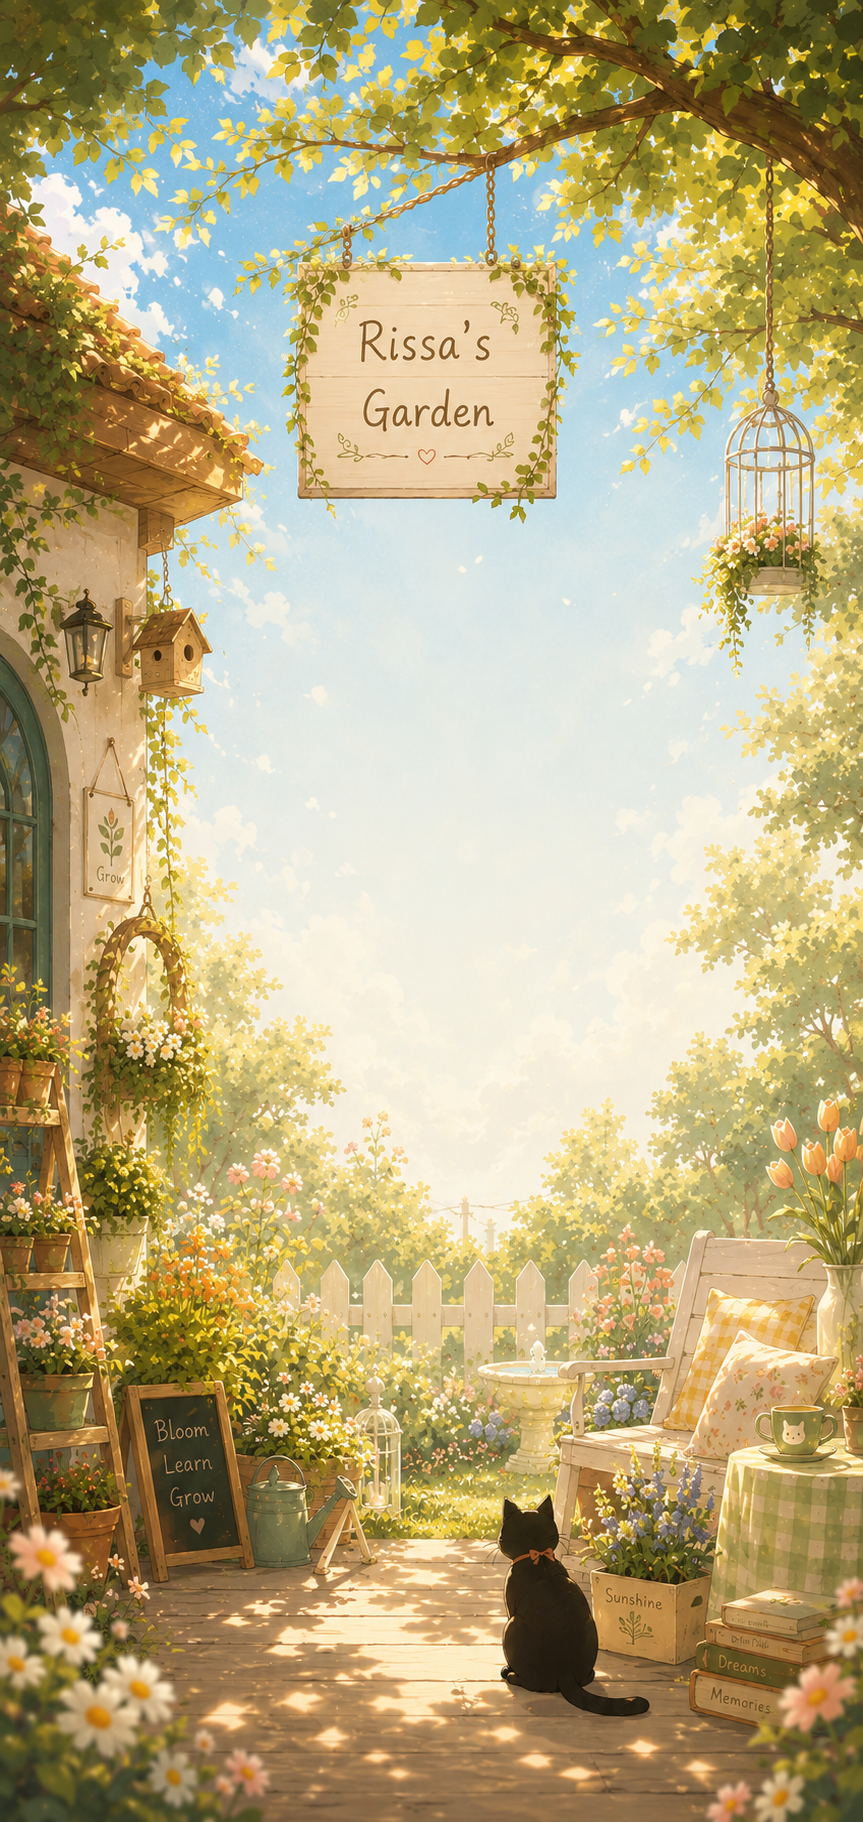
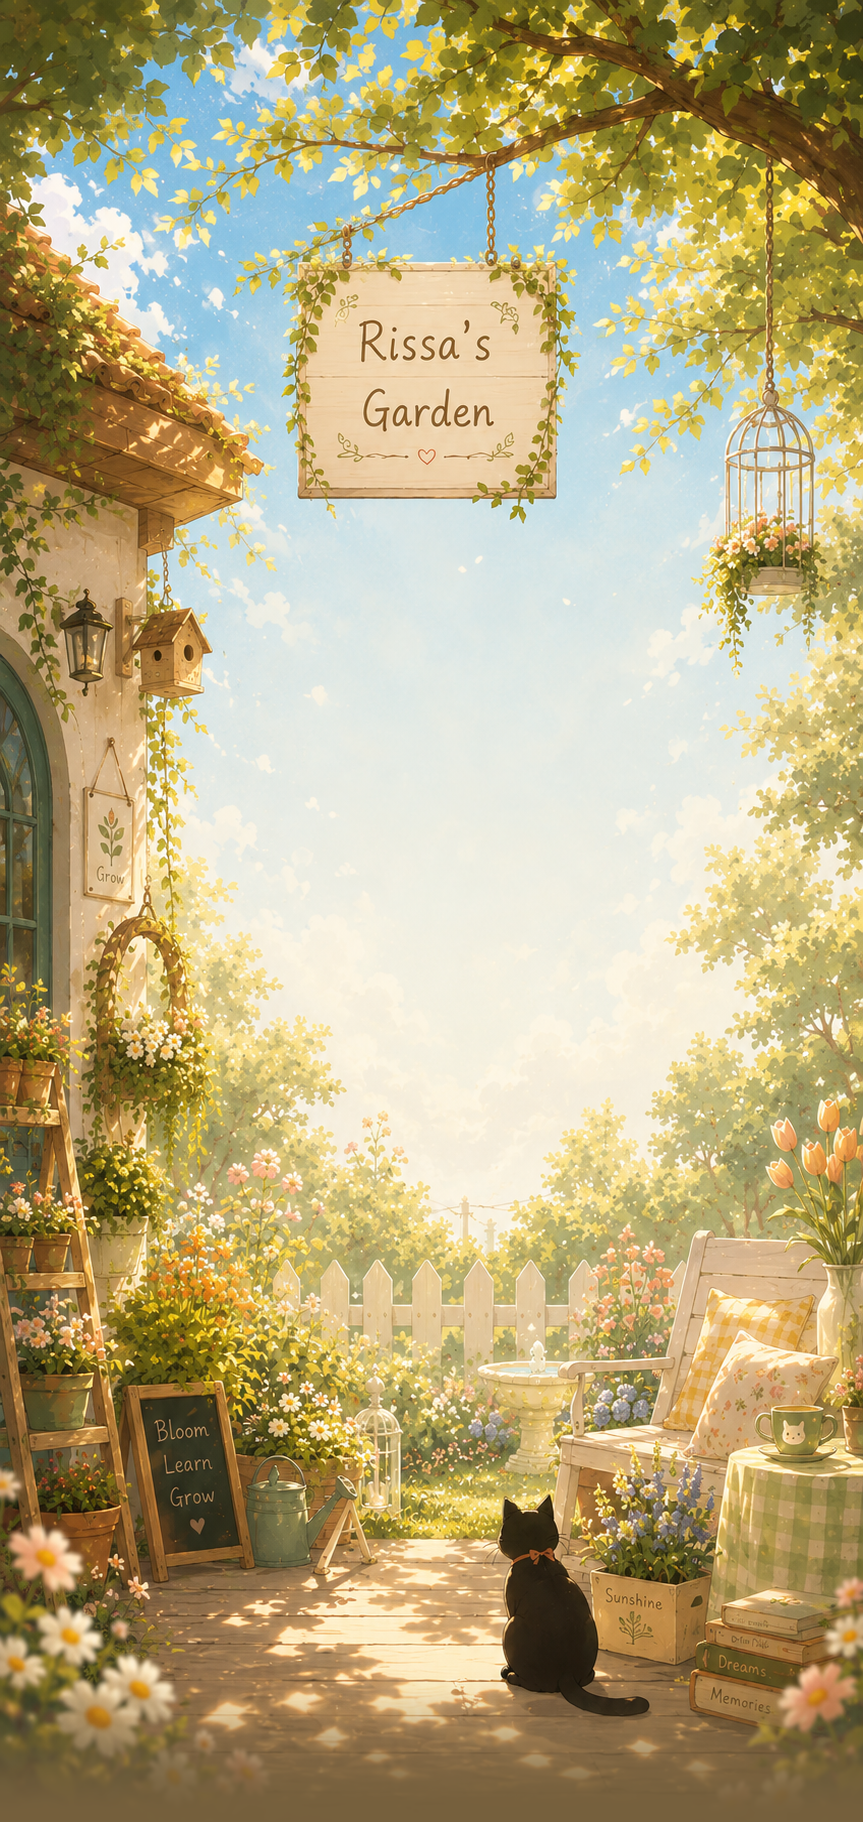
Add files via upload

Changed region(s): [[0.0, 0.9221, 1.0, 1.0]]

diff --git a/style.css b/style.css
@@ -537,7 +537,7 @@ button:focus-visible, input:focus-visible { outline: 3px solid rgba(153,174,104,
 }
 
 /* =========================
-   One definitive PWA layout
+   v0.5.6 — stable iPhone PWA layout
    ========================= */
 :root {
     --safe-top: env(safe-area-inset-top, 0px);
@@ -551,9 +551,10 @@ body {
     width: 100%;
     height: 100%;
     min-height: 100%;
+    margin: 0;
     overflow: hidden;
     overscroll-behavior: none;
-    background: #7b6440;
+    background: #76603d;
 }
 
 body {
@@ -565,17 +566,7 @@ body {
 
 .app-background {
     position: fixed;
-
-    /*
-       The installed iPhone PWA may treat the Home Indicator area
-       as outside the ordinary fixed-layout viewport. Extend the
-       artwork beyond every safe-area edge instead of stopping at it.
-    */
-    top: calc(0px - var(--safe-top));
-    right: calc(0px - var(--safe-right));
-    bottom: calc(0px - var(--safe-bottom));
-    left: calc(0px - var(--safe-left));
-
+    inset: 0;
     z-index: 0;
     pointer-events: none;
 
@@ -589,9 +580,6 @@ body {
     background-size: cover;
     background-position: center;
     background-repeat: no-repeat;
-
-    transform: translateZ(0);
-    -webkit-transform: translateZ(0);
 }
 
 .page {
@@ -628,11 +616,11 @@ button {
 
 .sound-toggle {
     right: calc(26px + var(--safe-right));
-    bottom: calc(24px + var(--safe-bottom));
+    bottom: calc(18px + var(--safe-bottom));
 }
 
 .success-toast {
-    bottom: calc(28px + var(--safe-bottom));
+    bottom: calc(22px + var(--safe-bottom));
 }
 
 /* =========================
@@ -654,27 +642,26 @@ button {
 
     .page {
         padding:
-            calc(82px + var(--safe-top))
+            calc(72px + var(--safe-top))
             calc(18px + var(--safe-right))
-            calc(24px + var(--safe-bottom))
+            calc(14px + var(--safe-bottom))
             calc(18px + var(--safe-left));
     }
 
+    /*
+       The page content box already excludes the outer padding.
+       max-height: 100% therefore uses the full available area
+       instead of subtracting the safe areas a second time.
+    */
     .start-content,
     .home-content,
     .experience-panel,
     .detail-panel,
     .mode-panel,
     .entry-panel {
+        width: min(100%, 760px);
+        max-height: 100%;
         padding: 28px 22px;
-
-        max-height:
-            calc(
-                100%
-                - var(--safe-top)
-                - var(--safe-bottom)
-                - 88px
-            );
 
         overflow-y: auto;
         overscroll-behavior: contain;
@@ -683,8 +670,14 @@ button {
     }
 
     .start-content {
+        width: min(92%, 620px);
         overflow: hidden;
         padding-top: 34px;
+        padding-bottom: 34px;
+    }
+
+    .home-content {
+        width: min(100%, 620px);
     }
 
     .home-buttons,
@@ -707,12 +700,12 @@ button {
     }
 
     .back-button {
-        top: calc(18px + var(--safe-top));
+        top: calc(16px + var(--safe-top));
         left: calc(18px + var(--safe-left));
     }
 
     .floating-date-control {
-        top: calc(18px + var(--safe-top));
+        top: calc(16px + var(--safe-top));
         right: calc(18px + var(--safe-right));
     }
 
@@ -729,23 +722,21 @@ button {
     }
 
     .sound-toggle {
-        right: calc(18px + var(--safe-right));
-        bottom: calc(18px + var(--safe-bottom));
+        right: calc(16px + var(--safe-right));
+        bottom: calc(10px + var(--safe-bottom));
     }
 
     .confirmation-overlay {
+        padding:
+            calc(16px + var(--safe-top))
+            calc(16px + var(--safe-right))
+            calc(16px + var(--safe-bottom))
+            calc(16px + var(--safe-left));
         overscroll-behavior: none;
     }
 
     .confirmation-card {
-        max-height:
-            calc(
-                100%
-                - var(--safe-top)
-                - var(--safe-bottom)
-                - 36px
-            );
-
+        max-height: 100%;
         overflow-y: auto;
         overscroll-behavior: contain;
         -webkit-overflow-scrolling: touch;

diff --git a/index.html b/index.html
@@ -4,7 +4,7 @@
     <meta charset="UTF-8">
     <meta name="viewport" content="width=device-width, initial-scale=1.0, viewport-fit=cover">
     <title>Rissa's Garden</title>
-    <meta name="theme-color" content="#7b6440">
+    <meta name="theme-color" content="#76603d">
     <meta name="application-name" content="Rissa's Garden">
     <meta name="apple-mobile-web-app-capable" content="yes">
     <meta name="apple-mobile-web-app-status-bar-style" content="black-translucent">

diff --git a/sw.js b/sw.js
@@ -1,4 +1,4 @@
-const CACHE_NAME = "rissa-garden-pwa-v0.5.5";
+const CACHE_NAME = "rissa-garden-pwa-v0.5.6";
 
 const APP_SHELL = [
     "./",
